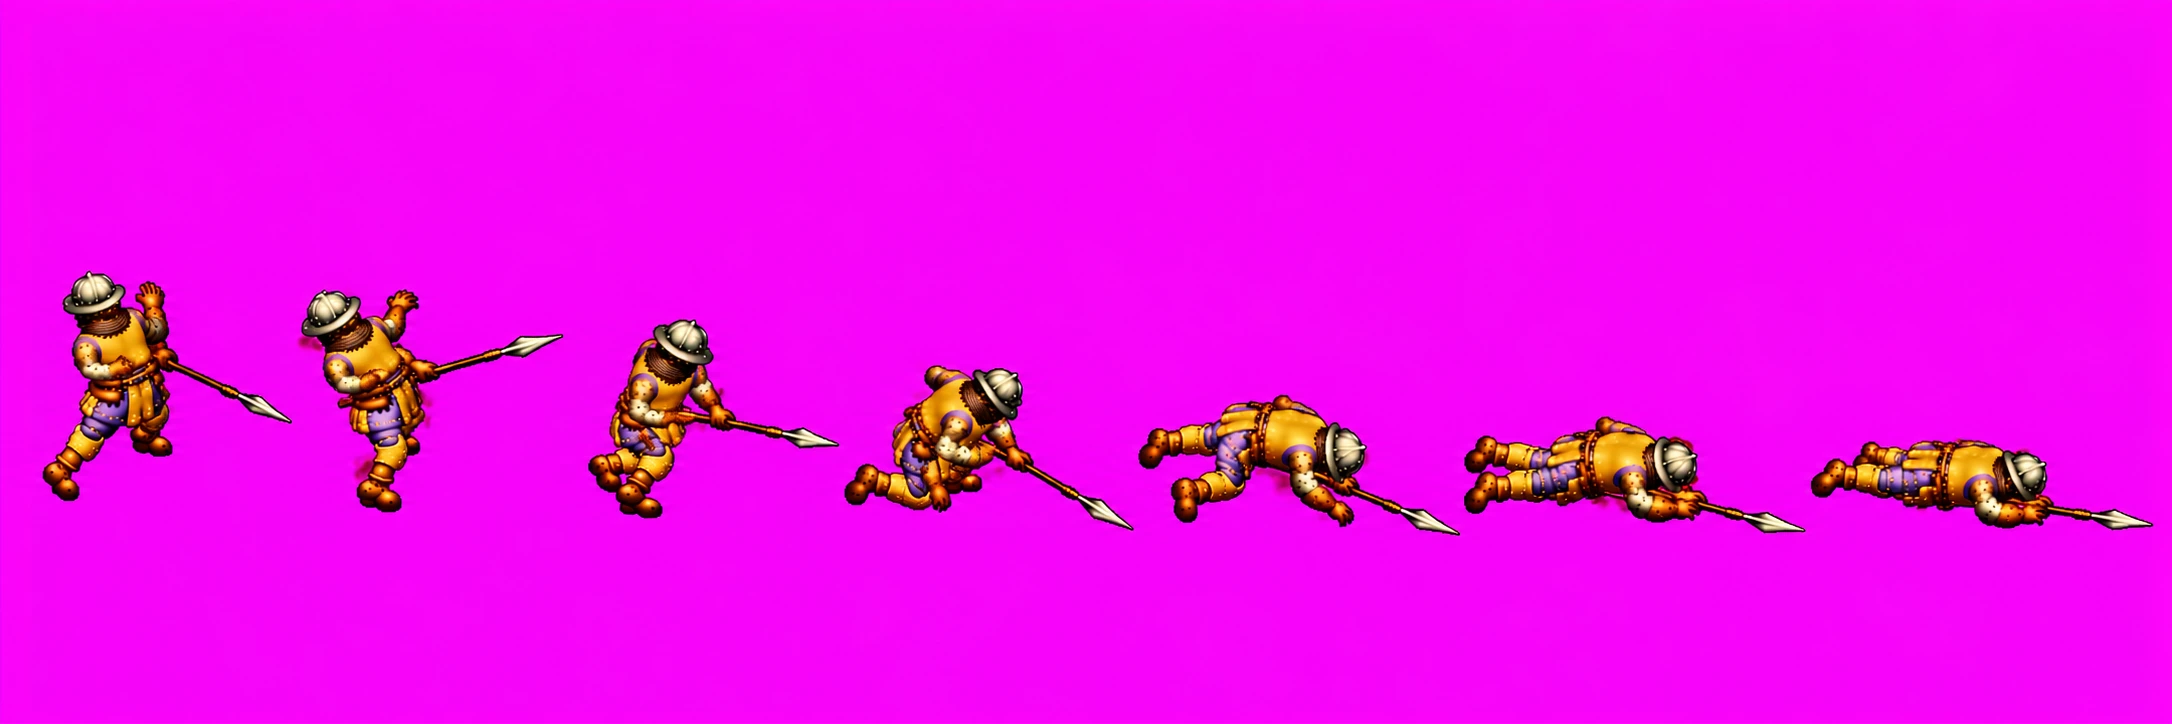
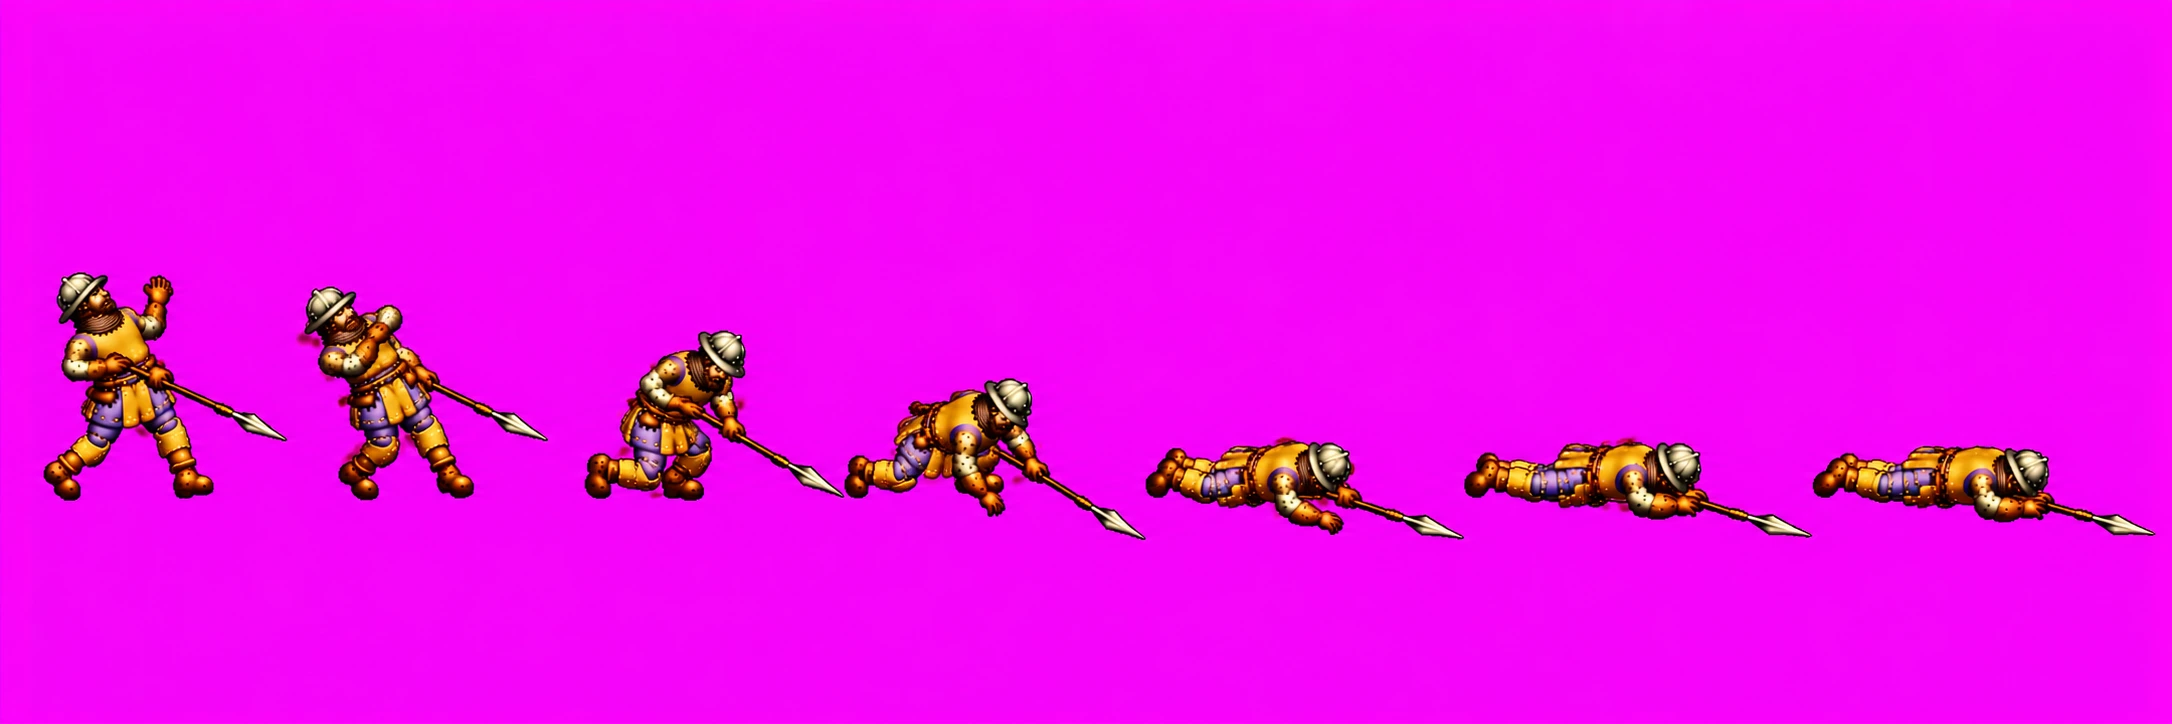
Vallen ZO van de speerman, nu naar de kijker toe
Na de redo ziet hij in het begin naar de kijker, zoals bij lopen en aanvallen ZO, zodat hij zich niet meer omdraait als
hij geraakt wordt. De rest blijft pixel voor pixel hetzelfde.

Changed region(s): [[0.0, 0.3646, 0.8329, 0.7597], [0.8329, 0.6077, 1.0, 0.7597]]

diff --git a/beelden/beschrijving.js b/beelden/beschrijving.js
@@ -613,7 +613,7 @@
        "fps": 8,
        "herhaal": false,
        "cel": [
-        133,
+        132,
         107
        ],
        "anker": [

diff --git a/ontwerp/beelden-van-de-generator.md b/ontwerp/beelden-van-de-generator.md
@@ -346,10 +346,12 @@ generator van 1,7 MB; op spelmaat is het verschil ruis) en lopen in het spel. Wa
 - **Vel 23, vallen NO** (22 okt): goed, van achteren voorover naar rechtsboven; weer een puntje achteraan de speer (beeld
   1 tot 4) en rode vlekjes.
 - **Vel 24, vallen O** (22 okt): goed, door de klap achterover en dan voorover naar rechts (gespiegeld aan W).
-- **Vel 25, vallen ZO** (22 okt), voorlopig: goed gevallen naar rechtsonder, maar in beeld 1 en 2 van achteren gezien
-  (bij lopen en aanvallen ZO kijkt hij naar de kijker), dus hij draait zich om als hij geraakt wordt.
+- **Vel 25, vallen ZO** (22 okt): eerst in beeld 1 en 2 van achteren gezien. Goed werd het met: "redo 25: Dying SE again.
+  He faces south-east, down and to the right, TOWARDS the viewer, exactly like the walking SE sheet (sheet 9) and the
+  attacking SE sheet (sheet 17): in frames 1 to 4 we see his face, his beard and the front of his tabard; we do NOT see
+  his back. [...] One spear with one spearhead, which keeps pointing down and to the right. No blood. [...]"
 - **Alle 25 vellen zijn er** (22 okt). Voorlopig, met een redo die beter kan: 21 (vallen NW: de punt in beeld 1 naar
-  achteren, twee punten in beeld 2) en 25 (vallen ZO: van achteren in beeld 1 en 2); en eventueel 3 en 4 (lopen ZW en W:
+  achteren, twee punten in beeld 2), 17 (aanvallen ZO: de stijl, glimmend en bijna zonder blauw); en eventueel 3 en 4 (lopen ZW en W:
   de punt naar achteren). De vallen vanaf 18 zijn glimmender en oranjer getekend (de wapenrok bijna zonder blauw);
   `kleurGelijk` trekt de kleur bij, de vorm niet. Bij N (vel 14), van achteren, speelt hetzelfde: dan de punt
   omhoog, van de kijker af.

diff --git a/ontwerp/werklijst.md b/ontwerp/werklijst.md
@@ -32,7 +32,7 @@ de pijplijn van vraag 180 (Q, f; niet in de cloud). **Bezig in sessie `lokaal-da
 **nieuwe weg** (Marcel, 21 okt: "Ok, dan zullen we moeten inventariseren welke gebouwen en poppetjes we nodig hebben. Dan
 kunnen we de andere generator deze 1 voor 1 laten maken. Jij moet dan zorgen dat ze passend worden in het spel"): de
 generator van zijn plaat maakt de bron, wij maken het passend; eerst de inventaris (`beelden-van-de-generator.md`). De
-speerman staat en loopt in het spel in acht richtingen (21 okt, de masterprompt); de aanval in alle acht richtingen en alle 25 vellen staan erin (22 okt); eventueel nog een redo van 21 en 25 (en 3 en 4), `beelden-van-de-generator.md` (in
+speerman staat en loopt in het spel in acht richtingen (21 okt, de masterprompt); de aanval in alle acht richtingen en alle 25 vellen staan erin (22 okt); eventueel nog een redo van 21 en 17 (en 3 en 4), `beelden-van-de-generator.md` (in
 het nieuwe gesprek, `beelden-van-de-generator.md`), en eventueel 3 en 4 opnieuw (de punt naar achteren).
 
 **Marcels acht punten van 20 okt** (R, vraag 182 tot 189: egaliseren met de schop, de maat van de huizen, dragers, een
